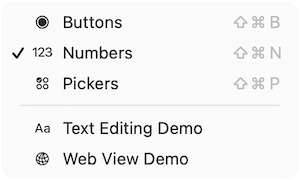
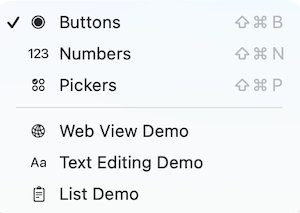
SwiftUI 2025 post

diff --git a/src/post/2025/swiftui-mac-2025.md b/src/post/2025/swiftui-mac-2025.md
@@ -1,17 +1,19 @@
 ---
 title: "SwiftUI for Mac 2025"
-date: 2025-07-12 17:18:41
+date: 2025-07-31 16:20:00
 layout: layouts/post.njk
-draft: true
-description: 'Mac app development using SwiftUI on macOS 26 Tahoe'
+draft: false
+description: 'Mac app development using SwiftUI on macOS 26 Tahoe and Xcode 26'
 categories: ['Swift', 'SwiftUI', 'macOS']
 ---
 
-Almost every year, I write an article and sample app, exploring the new features of SwiftUI with particular emphasis on Mac app development. This year, it feels like the operating systems are becoming more uniform, so there is not a lot that's Mac-specific, but there are several new features that I am keen to explore.
+Almost every year, I write an article and a sample app, exploring the new features of SwiftUI, with particular emphasis on Mac app development. This year, it feels like the operating systems are becoming more uniform, so there is not a lot that's Mac-specific, but there are several new features that I am keen to explore.
+
+Usually, I write an app that downloads images from [HTTP Cats](https://http.cat) as well as demonstrating other features. This year, navigation hasn't really changed, so the HTTP Cats app didn't seem relevant. Instead, I've created a sample app that features some of the new aspects of SwiftUI for macOS 26.
 
 <!--more-->
 
-Right now, I'm using Beta 3: macOS 26.0 Beta (25A5306g) and Xcode 26.0 beta 3 (17A5276g). And by the way, I love the new year numbering system so that all the operating systems are easily identifiable and even Xcode is in line with everything else.
+Right now, I'm using Beta 4: macOS 26.0 Beta (25A5316i) and Xcode 26.0 beta 4 (17A5285i). And by the way, I love the new year numbering system so that all the operating systems are easily identifiable and even Xcode is in line with everything else.
 
 Here is a list of the topics I'm going to cover:
 
@@ -19,6 +21,7 @@ Here is a list of the topics I'm going to cover:
 * [New look controls](#new-look-controls)
 * [Web view](#web-view)
 * [Rich text](#rich-text)
+* [Long lists](#long-lists)
 * [Menu item icons](#menu-item-icons)
 * [Concurrency](#concurrency)
 * [Toolbars](#toolbars)
@@ -26,9 +29,9 @@ Here is a list of the topics I'm going to cover:
 <a id="app-icons"></a>
 ### App icons
 
-When you create a new project in Xcode 26, the old **Assets.xcassets** folder is still there and it still contains an **AppIcon** entry, but this is no longer the only way to create an app icon. This is an area where macOS has lagged behind iOS, so it's great to see all the systems using the same method now.
+When you create a new project in Xcode 26, the old **Assets.xcassets** folder is still there and it still contains an **AppIcon** entry, but this is no longer the only way to create an app icon. The new icon format applies to all platforms, but this is an area where macOS has lagged behind iOS, so it's great to see all the systems using the same tool and format now.
 
-Right-click on the Xcode icon in your Dock and choose **Open Developer Tool -> Icon Composer** from the popup menu. This opens a new app for creating icon files. Start by using the Document tab in the inspector to turn off watchOS and select macOS only:
+Right-click on the Xcode icon in your Dock and choose **Open Developer Tool &rarr; Icon Composer** from the popup menu. This opens a new app for creating icon files. Create a new document and start by using the Document tab in the inspector to turn off watchOS and select macOS only:
 
 ![Icon document settings][i1]
 
@@ -40,20 +43,18 @@ In the sidebar, select **Icon** to edit the background and select your image to 
 
 ![Icon composer][i2]
 
-Anyway, with my icon composed, I saved it as **Cat.icon** and then dragged it in to the project folder, copying it to my app target. Then, in General settings for the app target, I changed the app icon to **Cat** without the extension. After running the app, I right-clicked on its icon in the Dock and selected **Options -> Show in Finder** so I could see the icon fully in Icons view mode. It looked pretty good in default mode, but when I used **System Settings -> Appearance** to alter the icon style, it was clear that some of the options would require more work. But still, this was a good start.
+Anyway, with my icon composed, I saved it as **Cat.icon** and then dragged it in to the project folder, copying it to my app target. Then, in General settings for the app target, I set **App Icon** to **Cat** without the extension. After running the app, I right-clicked on its icon in the Dock and selected **Options &rarr; Show in Finder** so I could see the icon fully. It looked pretty good in default mode, but when I used **System Settings &rarr; Appearance** to alter the icon style, it was clear that some of the options would require more work. But still, this was a good start.
 
 ![Icon appearance][i3]
 
-Note: When building the app, I got a warning saying **Failed to generate flattened icon stack for icon named 'Cat'**. I assume this is a beta issue and it didn't stop the app from using the new icon.
-
 If you want to support older systems and have an AppIcon set in **Assets.xcassets**, set the name of your Icon Composer file to AppIcon and your app will use the new one and fall back to the old one if required.
 
-One nice touch is that if you select the icon file in the Xcode Project navigator, you get an option to open the file in Icon Composer directly.
+One nice touch is that if you select the icon file in the Xcode Project navigator, you get a button under the preview for opening the file in Icon Composer directly.
 
 <a id="new-look-controls"></a>
 ### New look controls
 
-With the introduction of Liquid Glass, many controls have a new look. In the sample app, I added a `TabView` to group the controls I wanted to test. Tabs have a title and an icon, as they did last year. The default style groups them in the toolbar, although in Beta 3, there is not a lot of transparency:
+With the introduction of Liquid Glass, many controls have a new look. In the sample app, I added a `TabView` to group the controls I wanted to test. Tabs have a title and an icon, as they did last year. The default style groups them in the toolbar, although since Beta 3, there is not a lot of transparency:
 
 ![Default tabs][i4]
 
@@ -63,11 +64,11 @@ Setting the `tabViewStyle` to `sidebarAdaptable` moved the tabs to a sidebar ove
 
 ![Sidebar tabs][i5]
 
-Not only does this style display the window title, but it also allows for a window subtitle using the `navigationSubtitle` modifier. And it displays a sidebar toggle button. There is a way to remove the sidebar toggle button if it's part of a navigation view, but that technique didn't work here. Despite the style name indicating that this style is adaptable, that only applies to iPad app.
+Not only does this style display the window title, but it also allows for a window subtitle using the `navigationSubtitle` modifier. And it displays a sidebar toggle button. There is a way to remove the sidebar toggle button if it's part of a navigation view, but that technique didn't work here. Despite the style name indicating that this style is adaptable, it only adapts to suit the window size in an iPad app.
 
 #### Buttons
 
-The main change for buttons is the two new options for `buttonStyle`: `glass` and `glassProminent`. Both styles can have a `tint` applied, but when tinted, the `glass` style buttons don't show the mouse down effect very distinctly. The `glassProminent` style never shows it clearly. By default, the `glassProminent` style is tinted using the `accentColor` or the user's preferred theme color if chosen.
+The main change for buttons is the two new options for `buttonStyle`: `glass` and `glassProminent`. Both styles can have a `tint` applied. I found that with certain tints, the `glassProminent` style button doesn't show the mouse down effect very distinctly. By default, the `glassProminent` style is tinted using the `accentColor` or the user's preferred theme color if chosen.
 
 Toggles have a slightly new look. The button style gives a much more prominent indicator of the selected state, and the switch style uses the new Liquid Glass style which you can really see if you drag the switch instead of clicking on it.
 
@@ -75,9 +76,11 @@ In this screenshot, I've added a background to the view and tinted the `glassPro
 
 ![Buttons][i6]
 
-In the **...App.swift** file, I set the `WindowGroup` `windowStyle` to `hiddenTitleBar`, which looks more consistent, but would not be good for a multi-window app:
+I wrapped the `VStack` containing the sample buttons in a `ScrollView` and that made the title bar transparent and allowed the content to scroll up behind the title bar. Toggle the background on and shrink the window to see this clearly:
 
 ![Hidden title bar][i7]
+
+Sometimes, this caused a graphical glitch in the `glassProminent` button, but I expect this is a beta issue.
 
 #### Numbers
 
@@ -89,18 +92,47 @@ For the stepper, the up and down arrows are larger, which I think is a good idea
 
 One slight oddity of the stepper showing an editable value is that it lets you enter a value that doesn't match the step size or is inside the range. In this example, I set the step size to 0.05 (5%) and then entered 13%. The arrow buttons still go up and down in 5% increments, so I got 18% or 8% depending on which way I clicked. Also, you can enter a non-numeric value, but it is ignored: tabbing out of the entry resets it, and the arrow buttons operate on your previous entry.
 
-I added a view to test the various `Picker` styles, but they seem to be the same as last year.
+I added a view to test the various `Picker` styles, but they seem to be the same as last year, so for fun, I added two `Text` views with glass effects applied:
+
+```swift
+HStack {
+  Text("Glass Effect - regular")
+    .padding()
+    .glassEffect(.regular.tint(colorForTint))
+
+  Text("Glass Effect - clear")
+    .padding()
+    .glassEffect(.clear.tint(colorForTint))
+}
+```
+
+They take their tint color from the picker selection. The `clear` style is slightly more translucent than the default `regular` style but doesn't have as glassy a border. Neither are as glassy as I expected, so I added a `ZStack` to apply a background of the same color only much less opaque and with a `backgroundExtensionEffect` to bring the color under the side tab  bar:
+
+```swift
+ZStack {
+  colorForTint.opacity(0.2)
+    .backgroundExtensionEffect()
+
+  VStack(spacing: 30) {
+    // ...
+  }
+}
+```
+
+I expect it would look even more obvious with an image behind it. Actually, leaving it un-tinted on a color background is a probably the best way to see the effect:
+
+![Glass effect][i16]
+
+And if you really want to see something unusual, put the app into the background. The three glass effects are all very different.
 
 <a id="web-view"></a>
 ### Web view
 
-One of the most exciting additions for me was the new WebView. So many apps need to display web content, and until now, the only option has been to use `NSViewRepresentable` or `UIViewRepresentable` to bring in the view from WebKit. The SwiftUI team has exceed my expectations with the features in the new `WebView` and it's going to need its own article, but I'll cover the two main ways to use it here.
+One of the most exciting additions for me was the new `WebView`. So many apps need to display web content, and until now, the only option has been to use `NSViewRepresentable` or `UIViewRepresentable` to bring in a `WKWebView`. The SwiftUI team has exceed my expectations with the features in the new `WebView` and it's going to need its own article, but I'll cover the two main ways to use it here.
 
-I wanted to see how toolbars look, so I added a toolbar to `ContentView` with two buttons for navigating to a web display window and a text editing window. With the window's title bar hidden, I was unable to adjust the placement of the toolbar, even when adding a `ToolbarSpacer`. Adding an old-style `Spacer` worked, but that felt wrong.
+Before working with any web view in a Mac app, you first need to turn on **Outgoing Connections (Client)** in the **Signing & Capabilities** for the target. Also, any SwiftUI view that needs to use `WebView` must import `WebKit`.
 
-Before working with any web view, you need to turn on **Outgoing Connections (Client)** in **Signing & Capabilities** for the target. Also, any SwiftUI view that needs to use WebView must import WebKit.
-
-With those in place, here's my code for displaying my web page in a SwiftUI WebView:
+With those in place, here's my code for displaying my web site in a SwiftUI WebView:
 
 ```swift
 import SwiftUI
@@ -115,18 +147,18 @@ struct WebDemo: View {
 }
 ```
 
-I have found that the only way to create an invalid URL from a string is to provide an empty string, so I am now happy to force-unwrap URLs. After that, I add a `WebView` and set its `url` to `myPage`:
+I have found that the only way to create an invalid URL from a string is to provide an empty string, so I am now happy to force-unwrap URLs. After that, I added a `WebView` and set its `url` to `myPage`:
 
 ![Web view][i9]
 
-As you can see, a contextual menu offers basic navigation options. So to display any web page off the internet, all you need to the URL.
+As you can see, a contextual menu offers basic navigation options. So to display any web page off the internet, all you need is the URL.
 
 To gain more control, initialize a `WebView` with a `WebPage`:
 
 ```swift
 struct WebDemo: View {
   @State private var page = WebPage()
-  let blank = URL(string: "about.blank")!
+  let blank = URL(string: "about:blank")!
 
   var body: some View {
     WebView(page)
@@ -136,7 +168,7 @@ struct WebDemo: View {
   }
 
   let html = """
-      HTML goes here
+      HTML goes here (truncated for reading)
     """
 }
 ```
@@ -145,7 +177,7 @@ I added a `Picker` to the toolbar for switching between the two web view sources
 
 ![Local web][i10]
 
-Using a `WebPage` gives a lot of different options, but this shows the basic idea. I think I would tend to use a WebPage as that lets me track the loading state so I could show a progress indicator.
+Using a `WebPage` gives a lot of different options, but this shows the basic idea. I will tend to use a `WebPage` as that lets me track the loading state so I can show a progress indicator.
 
 <a id="rich-text"></a>
 ### Rich text
@@ -162,60 +194,79 @@ var body: some View {
 }
 ```
 
-With an `AttributedString`, you get a lot of formatting options, although not as many as I expected. Setting bold, italic or underline is easy and so is changing the font size. I have not yet worked out how to change the font, except by pasting in text in a different font. At that point, the newly pasted font becomes one of the document's styles and can be applied to other portions of the text, but this can't be the only way. Spell checking is also a bit erratic - it works really well if you open the spell checker dialog, but it doesn't work as you type.
+With an `AttributedString`, you get a lot of formatting options, although not as many as I expected. Setting bold, italic or underline is easy and so is changing the font size. I have not yet worked out how to change the font, except by pasting in text in a different font. At that point, the newly pasted font becomes one of the document's styles and can be applied to other portions of the text, but this can't be the only way. There is a **Show Fonts** menu item in **Format &rarr; Font**, but it is always disabled. Spell checking is also a bit erratic - it works really well if you open the spell checker dialog, but it doesn't work as you type.
 
-I added `TextEditingCommands` and `TextFormattingCommands` to the menus, but they all seemed to be available through the contextual menu anyway.
+I added `TextEditingCommands` and `TextFormattingCommands` to the menus, but they all seemed to be available through the contextual menu anyway. The Apple Intelligence Writing Tools are also available either through the **Edit** menu or the contextual menu.
 
 For saving and loading the formatted text, I realized that `AttributedString` is a `Codable` type, so I used `JSONEncoder` and `JSONDecoder` to save and load as the view appears and disappears. This worked really well, whether I closed the editor window manually or just quit the app. This is just a quick hack for a single editor, but it could be the basis for a more complex app.
 
 ![Text editing][i11]
 
-I think there will be more to discover with this, but it's already a lot better than before. And I haven't even started to get into tracking the selection and adding custom formatting.
+I think there will be more to discover with this, but it's already a lot better than before. And I haven't even started to get into tracking the selection or adding custom formatting.
+
+<a id="long-lists"></a>
+### Long lists
+
+SwiftUI lists on iOS have always performed better than on macOS but this year, macOS is catching up. I added a **List Demo** window to test out various lengths of list. Before, I found that more than about 3,000 items in a list would cause performance issues, but now I can have 10,000 items and it still feels snappy, both for drawing, scrolling and selecting. With 50,000 items, it's still usable but selection is a bit slow. Interestingly, clearing the list is a big performance hit, but I'm not sure why. 500,000 items takes a very long time to draw. Scrolling is not too bad but selecting a new item takes several seconds. Clearing a list this big takes more than a minute.
+
+![Long list][i15]
+
+I'm still not convinced that SwiftUI lists are the best way to display long lists, but I'm glad to see some performance improvements. I think my limit would be around 20,000 items, but I'd need to test on various machines.
 
 <a id="menu-item-icons"></a>
 ### Menu item icons
 
-A new thing in macOS 26 is the icons attached to menu items. Most of the default menu items have icons, but what about my own? 
+A new thing in macOS 26 and iPadOS 26 is icons attached to menu items. Most of the default menu items have icons, but what about my own? 
 
-Starting with the **Window** menu, I see the entries for my three windows:
+Starting with the **Window** menu, I see the entries for my three demo windows and the main window:
 
 ![Window menu][i12]
 
-Interestingly, the main window shows the title and its subtitle, even though I set the title bar to be hidden. I cannot see see how to add an icon to any of my windows in this menu.
+Interestingly, the main window shows the title and its subtitle. I can't see how to add an icon to any of my windows in this menu, but the standard system items all have icons.
 
-What if I add menu items to mimic the tab buttons? I added a new **Show** menu and used a `Picker` to select the main window tabs and buttons to open the demo windows. For each one, I used a `Label` instead of a `Text` view or a plain title. This let me assign an SFSymbol to each. I realize that this means the demo windows each have two menu items, but I wanted to experiment. And anyway, Xcode has two menu items to open the docs.
+What about a menu with items to mimic the tab and toolbar buttons? I added a new **Show** menu and used a `Picker` to switch between the main window tab and buttons to open the demo windows. For each one, I used a `Label` instead of a `Text` view or a plain title. This let me assign an system image to each. I realize that this means the demo windows each have two menu items, but I wanted to experiment. And anyway, Xcode has two menu items to open the docs.
 
 ![New menu][i13]
 
-For the top three items in the `Picker`, I set the `pickerStyle` to `inline` and set `labelIsHidden` to true. I like this style as it gives me a picker in the top level of the menu, instead of in a submenu. For passing the selection to the window, I used `@AppStorage` which is not a great choice as it makes the choice apply to every open instance of the main window, but I didn't want to get bogged down here. If you're interested in a more complete solution, check out my article on [The Mac Menubar and SwiftUI
-][1]
+For the `Picker` items, I set the `pickerStyle` to `inline` and set `labelIsHidden` to true. I like this style as it gives me a picker at the top level of the menu, instead of in a submenu. For passing the selection to the window, I used `@AppStorage` which is not a great choice as it makes the choice apply to every open instance of the main window, but I didn't want to get bogged down here. If you're interested in a more complete solution, check out my article on [The Mac Menubar and SwiftUI
+][1].
 
-As you can see, I was able to show icons, check marks and keyboard shortcuts. I like this, but it can be over done. The WWDC video on the topic said that if you have related menu items, you should only add an icon to the first. An example of them **not** doing this is the Finder's **File** menu. There are three **New Folder..** items, all with the same icon. I think it would look better if they followed their own guidelines and only put the icon on the first.
+As you can see, I was able to show icons, check marks and keyboard shortcuts. I like this, but it can be over done. The WWDC video on the topic said that if you have related menu items like multiple **New** or **Open** options, you should only add an icon to the first.
+
+On a side note, the **+** button for opening the Library has disappeared from Xcode's toolbar. I'm not sure if this is a bug or a feature but you have to use the **View** menu now, or the **Shift-Command-L** shortcut.
 
 <a id="concurrency"></a>
 ### Concurrency
 
-Last year, I sat out the change to Swift 6 and its strict concurrency checking. While I could get it to work but following Xcode's suggestions, I was left feeling that I was adding code to make the compiler happy, instead of code that actually made my apps better. This year, things are different. For a start, a new Xcode project has **Approachable Concurrency** turned on and has **Default Actor Isolation** set to **MainActor**. This means that everything is isolated to the main thread by default, but you can still step out into a background thread as required, for example when doing network operations.
+This is another thing that is not Mac-specific, but I feel it is important.
 
-The default Swift version is still set to 5, but I changed it to 6 for this sample app and had no compile-time warnings or errors. I realize that this app isn't doing any background tasks, but I still feel that things are improved, so I'll probably be using Swift 6 from now on.
+Last year, I sat out the change to Swift 6 and its strict concurrency checking. While I could get it to work by following Xcode's suggestions, I was left feeling that I was adding code to make the compiler happy, instead of code that actually made my apps better. This year, things are different. For starters, a new Xcode project has **Approachable Concurrency** turned on and has **Default Actor Isolation** set to **MainActor**. This means that everything is isolated to the main thread by default, but you can step out into a background thread if required.
+
+The default Swift version is still set to 5, but I changed it to 6 for this sample app and had no compile-time warnings or errors. I did use `@concurrent` when generating the items for the list demo, but it turned out that it was the UI updates on the main thread that were slowing things down, not the data generation. Even so, I prefer the new approach and I'll probably be using Swift 6 from now on.
 
 <a id="toolbars"></a>
 ### Toolbars
 
-I've discussed toolbars briefly as I added them to the sample app, but I have a few more unified thoughts. There are a lot of toolbar positioning options that are not available in macOS. It used to be possible to identify a Catalyst app from its missing Settings menu item. I think that in the future, we'll identify them from toolbars floating in unexpected places!
+As you will have seen in the screenshots, I added a toolbar to `ContentView` with buttons for navigating to various demo windows. I wanted to try out the new floating toolbar features with spacers, so I copied the format from Apple's Landmarks app. This didn't work - all the toolbar items were still grouped together. This turned out to be a *feature* of using the `sidebarAdaptable` tab style. When I reverted to a standard tab style, the toolbar appeared with multiple groups as I expected:
 
-Looking back at the screenshots from the web view section, the window without a toolbar already looks old-fashioned. Adding the toolbar made it look more modern. I see a lot of apps where the content scrolls behind the toolbar, getting blurred in the background. I'm not a huge fan of this as I think it's visually messy and makes the content and the toolbar more difficult to read. But I also don't know how to control this yet, so I can't test it.
+![Toolbar with spacers][i14]
 
-It's weird how setting the window style to `hiddenTitleBar` breaks the toolbar placement, but maybe this will be fixed in later betas. I haven't found a use yet for the new `ToolbarSpacer` - this may be another feature that is more suited to the iPad or iPhone.
+There was no logical reason for separating these buttons, but I wanted to test using `ToolbarSpacer(.fixed)` and `ToolbarSpacer(.flexible)`.
+
+There are a lot of new toolbar positioning options that are not available in macOS. It used to be possible to identify a Catalyst app from its missing Settings menu item. I think that in the future, we'll identify them from toolbars floating in unexpected places!
+
+Looking back at the screenshots from the web view section, the window without a toolbar already looks old-fashioned. Adding the toolbar made it look more modern.
 
 ### Summary
 
-The big thing is Liquid Glass. I have always advocated using default controls wherever possible and for apps that did this, most of the new look will be applied by re-compiling in Xcode 26. Of the new features, I'm most excited about the WebView so expect a separate article on that soon.
+The big thing this year is Liquid Glass. I have always advocated using default controls wherever possible and for apps that did this, most of the new look will be applied by re-compiling in Xcode 26. I'm not convinced that having content blurring behind a toolbar or title bar is a good idea - it ends up looking like a layout error much of the time. Of the new features, I'm most excited about the `WebView` so expect a separate article on that soon.
 
+The sample app is available on GitHub: [https://github.com/trozware/swiftui-mac-2025](https://github.com/trozware/swiftui-mac-2025).
 
+If you have any feedback about this article, please contact me using one of the links below or through the [Contact][contact] page. And if you found this useful, please [buy me a coffee][kofi].
 
-
-
+[contact]: /contact/
+[kofi]: https://ko-fi.com/trozware
 
 [1]: /post/2025/mac_menu_data/
 [i1]: /images/2025/icon_doc_settings.png
@@ -224,10 +275,13 @@ The big thing is Liquid Glass. I have always advocated using default controls wh
 [i4]: /images/2025/default_tabs.png
 [i5]: /images/2025/sidebar_tabs.png
 [i6]: /images/2025/buttons.png
-[i7]: /images/2025/hidden_titlebar.png
+[i7]: /images/2025/liquid_scroll.png
 [i8]: /images/2025/number_entry.png
 [i9]: /images/2025/webview_url.png
 [i10]: /images/2025/local_web.png
 [i11]: /images/2025/text_editing.png
 [i12]: /images/2025/window_menu.png
 [i13]: /images/2025/new_menu.png
+[i14]: /images/2025/toolbar_spacers.png
+[i15]: /images/2025/long_list.png
+[i16]: /images/2025/glass_effect.png
